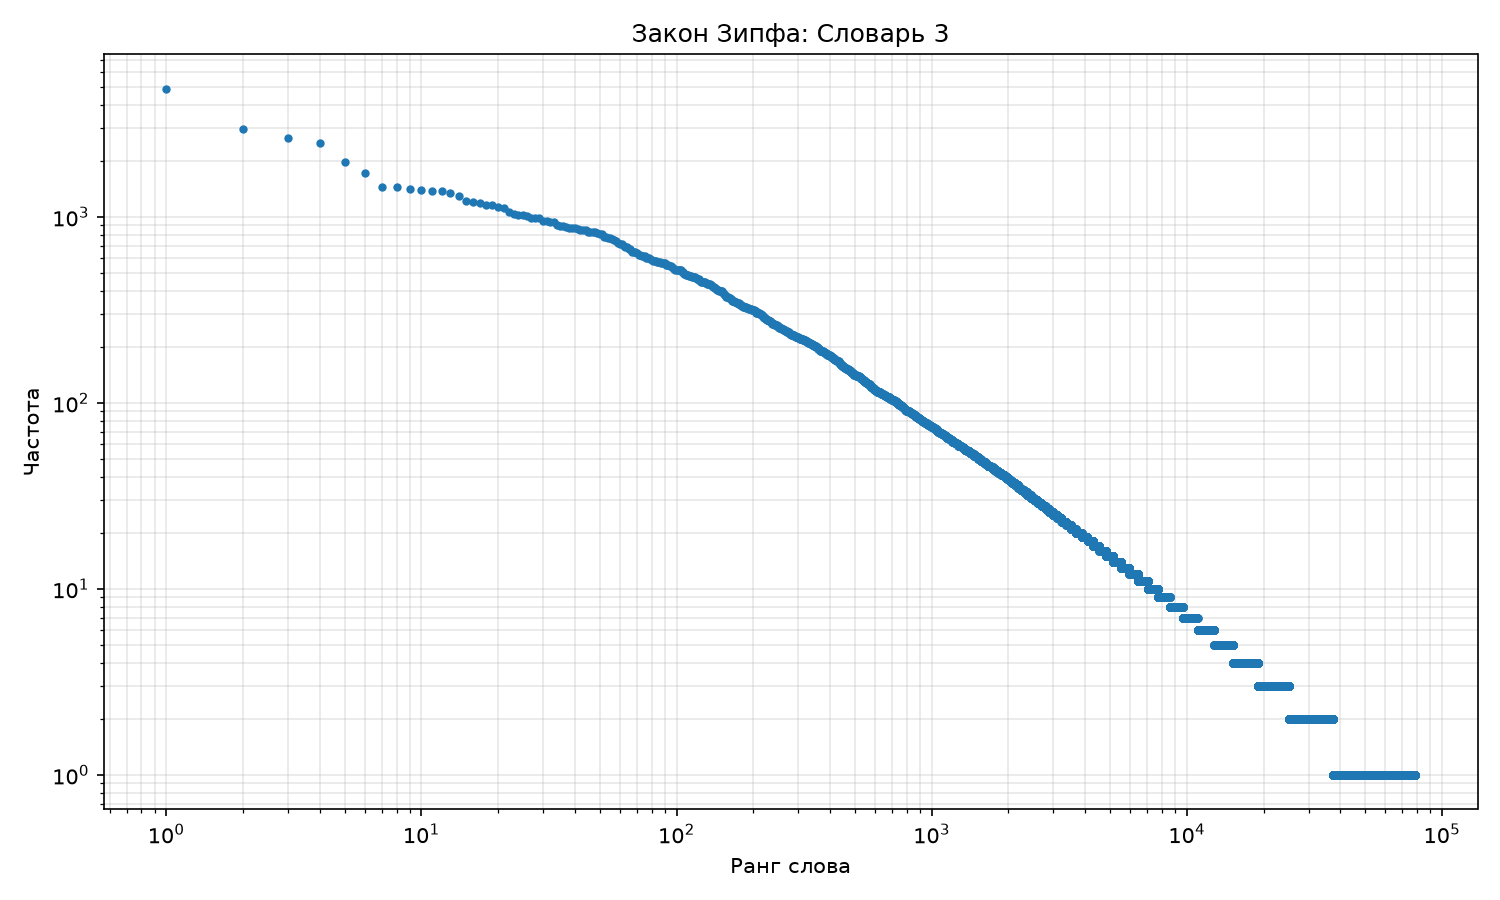
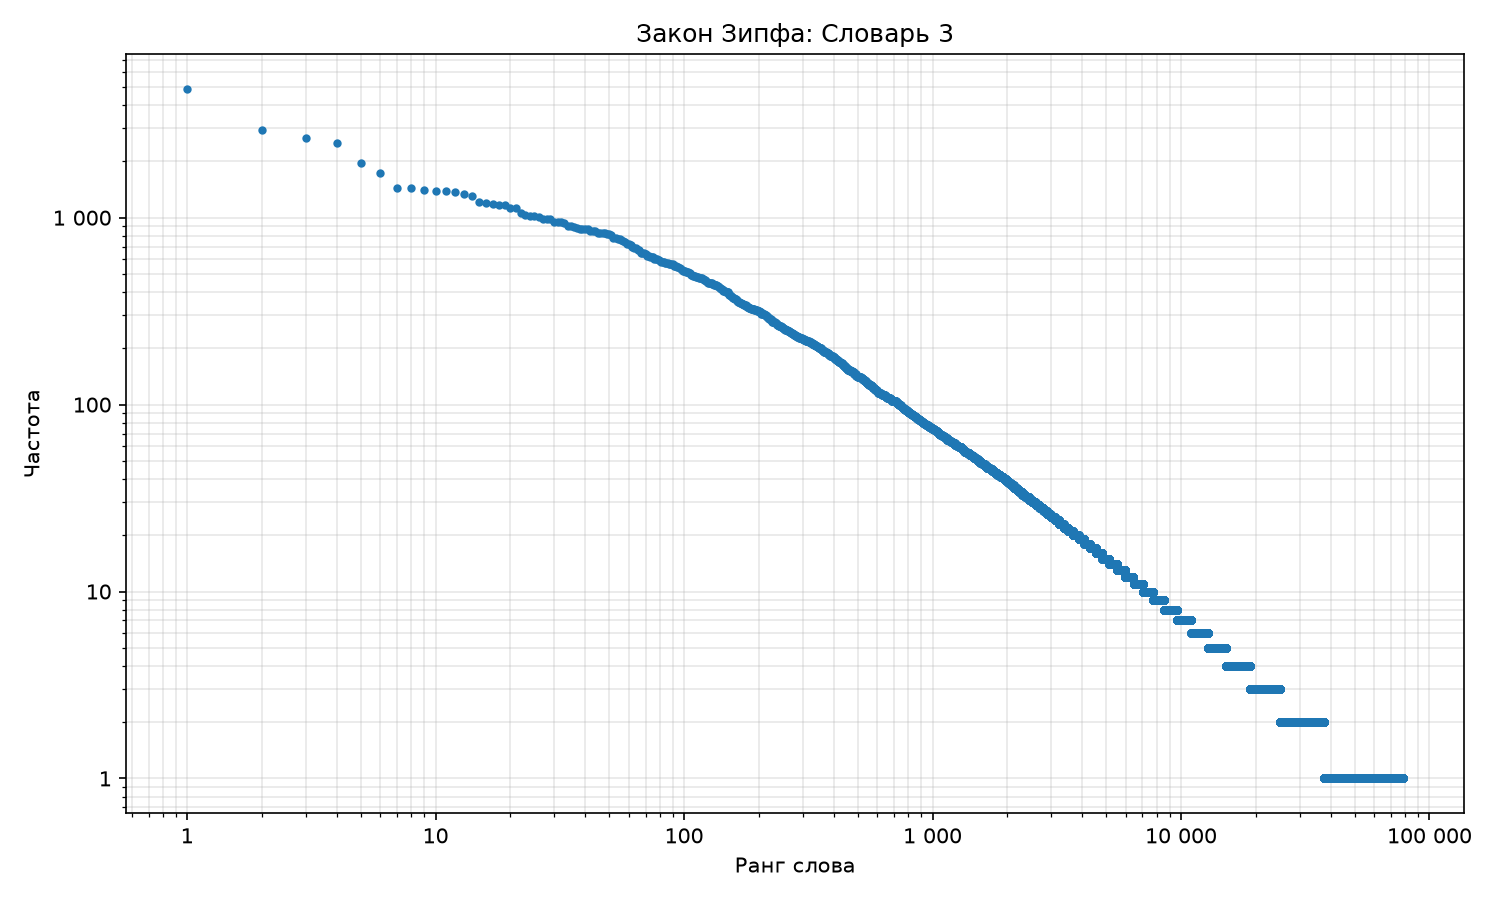
вроде ворк лаба 2

diff --git a/main4.py b/main4.py
@@ -1,14 +1,11 @@
 import os
+import re
 import spacy_udpipe
 from graphviz import Digraph
 
 
-
-# Решение проблемы с путями Graphviz на Windows
 os.environ["PATH"] += os.pathsep + r"C:\Program Files\Graphviz\bin"
 
-
-# Настройка и очистка папки для хранения графов (только через os)
 TARGET_DIR = "graphs"
 
 if os.path.exists(TARGET_DIR):
@@ -20,8 +17,6 @@ if os.path.exists(TARGET_DIR):
 else:
     os.makedirs(TARGET_DIR, exist_ok=True)
 
-
-# Загрузка модели синтаксического анализа
 MODEL_PATH = "russian-syntagrus-ud-2.5-191206.udpipe"
 
 if not os.path.exists(MODEL_PATH):
@@ -33,64 +28,155 @@ nlp = spacy_udpipe.load_from_path(lang="ru", path=MODEL_PATH, meta={"description
 print("Модель готова к работе\n")
 
 
+COPULAS = {"стать", "быть", "казаться", "оказаться", "являться", "называть", "считать", "сделаться", "остаться"}
+
+
 def analyze_sentence(text, index):
-    doc = nlp(text)
+    text_clean = re.sub(r"\s+[—–]\s+", " ", text).strip()
+    doc = nlp(text_clean)
+
+    def dep(tok):
+        return tok.dep_.lower()
+
+    def get_full_word(tok):
+        parts = [tok.text]
+        for child in tok.children:
+            if dep(child) in ("fixed", "goeswith"):
+                parts.append(child.text)
+        if dep(tok) in ("fixed", "goeswith"):
+            parts = [tok.head.text]
+            for child in tok.head.children:
+                if dep(child) in ("fixed", "goeswith"):
+                    parts.append(child.text)
+        parts_sorted = sorted(set(parts), key=lambda w: text_clean.find(w))
+        return "".join(parts_sorted)
+
+    # --- 1. Подлежащие (с фильтром для конструкций "нет + Gen") ---
+    subject_deps = {"nsubj", "csubj", "nsubjpass", "csubjpass"}
+    base_subjects = [token for token in doc if dep(token) in subject_deps]
     subjects = []
+    for subj in base_subjects:
+        # Баг-фикс: "Нет времени" — "времени" в родительном падеже при "нет" не является подлежащим
+        if (
+            subj.head.lemma_.lower() in ("нет", "не́ту")
+            and "Gen" in subj.morph.get("Case", [])
+        ):
+            continue
+        
+        full_subj = get_full_word(subj)
+        if full_subj not in subjects:
+            subjects.append(full_subj)
+        for child in subj.children:
+            if dep(child) == "conj":
+                full_conj = get_full_word(child)
+                if full_conj not in subjects:
+                    subjects.append(full_conj)
+
+    # --- 2. Глагольные сказуемые ---
     predicates = []
-    
-    # Создаем направленный граф
+
+    def is_predicate_token(tok):
+        d = dep(tok)
+        if d == "root":
+            return True
+        if tok.pos_ in ("VERB", "AUX") and d not in ("advcl", "acl", "amod", "acl:relcl"):
+            return True
+        return False
+
+    for token in doc:
+        if is_predicate_token(token):
+            full_pred = get_full_word(token)
+            if full_pred not in predicates:
+                predicates.append(full_pred)
+            for child in token.children:
+                if dep(child) == "conj" and is_predicate_token(child):
+                    full_conj = get_full_word(child)
+                    if full_conj not in predicates:
+                        predicates.append(full_conj)
+
+    # --- 2.1. Именная часть сказуемого ---
+    for token in doc:
+        d = dep(token)
+        full_name = get_full_word(token)
+
+        # attr / xcomp при глаголе-связке
+        if d in ("attr", "xcomp") and token.head.pos_ in ("VERB", "AUX"):
+            if full_name not in predicates:
+                predicates.append(full_name)
+            continue
+
+        # Творительный при глаголах-связках
+        if (
+            d == "obl"
+            and token.head.pos_ in ("VERB", "AUX")
+            and "Ins" in token.morph.get("Case", [])
+            and token.head.lemma_.lower() in COPULAS
+        ):
+            if full_name not in predicates:
+                predicates.append(full_name)
+            continue
+
+        # Нулевая связка: только главные позиции (root/parataxis/orphan/appos/conj).
+        # Баг-фикс: убрали nmod, ccomp, dep, чтобы зависимые слова (архитектуры) не попадали в сказуемые.
+        if (
+            d in ("root", "parataxis", "orphan", "appos", "conj")
+            and token.pos_ not in ("VERB", "AUX", "PUNCT", "ADP", "CCONJ", "SCONJ", "DET", "PART", "NUM")
+            and subjects
+            and full_name not in subjects
+        ):
+            if full_name not in predicates:
+                predicates.append(full_name)
+
+    # --- 3. Тип предложения ---
+    sentence_type = "двусоставное"
+    roots = [t for t in doc if dep(t) == "root"]
+    has_verb = any(t.pos_ in ("VERB", "AUX") for t in doc)
+    noun_roots = [r for r in roots if r.pos_ in ("NOUN", "PROPN")]
+
+    if noun_roots and not has_verb and not subjects:
+        sentence_type = "назывное (номинативное)"
+        full_root = get_full_word(noun_roots[0])
+        if full_root not in predicates:
+            predicates.append(full_root)
+    elif not subjects or not predicates:
+        sentence_type = "односоставное"
+        if not subjects and not predicates:
+            sentence_type += " (главные члены не выражены явно)"
+
+    # --- 4. Граф ---
     dot = Digraph(format='png', comment=f'Sentence {index}')
-    dot.attr(rankdir='TB') 
-    
+    dot.attr(rankdir='TB')
     for token in doc:
         node_id = f"{token.text}_{token.i}"
         node_label = f"{token.text}\n({token.pos_})"
         dot.node(node_id, node_label)
-        
-        # Поиск подлежащих
-        if "nsubj" in token.dep_:
-            subjects.append(token.text)
-            
-        # Скорректированный фильтр поиска сказуемых:
-        # Исключаем деепричастия (advcl) и причастия (acl), оставляя полноценные предикаты
-        is_verb_or_aux = token.pos_ in ["VERB", "AUX"]
-        is_not_modifier = token.dep_ not in ["advcl", "acl"]
-        
-        if token.dep_ == "root" or (is_verb_or_aux and is_not_modifier):
-            if token.text not in predicates:
-                predicates.append(token.text)
-        
-        # Построение связей (стрелки от главного слова к зависимому)
-        if token.dep_ != "root":
+        if dep(token) != "root":
             head_id = f"{token.head.text}_{token.head.i}"
             dot.edge(head_id, node_id, label=token.dep_)
-            
-    # Вывод результатов в консоль
+
+    # --- 5. Вывод ---
     print(f"\n--- Результаты разбора предложения №{index} ---")
+    print(f"Тип предложения: {sentence_type}")
     print(f"Подлежащие: {', '.join(subjects) if subjects else 'не найдены'}")
     print(f"Сказуемые: {', '.join(predicates) if predicates else 'не найдены'}")
-    
-    # Формируем относительный путь внутри папки graphs/
+
     graph_filename = f"syntax_graph_{index}"
     filepath = os.path.join(TARGET_DIR, graph_filename)
-    
-    # Сохраняем граф
     dot.render(filepath, cleanup=True)
     print(f"Граф успешно сохранен в: {filepath}.png")
 
 
-# Бесконечный интерактивный цикл ввода
 sentence_index = 1
 while True:
-    print("\n" + "="*50)
+    print("\n" + "=" * 50)
     user_input = input("Введите предложение (или 'в' для завершения): ").strip()
-    
+
     if user_input.lower() in ['выход', 'exit', 'quit', 'q', 'в']:
         print("Выход")
         break
     if not user_input:
         continue
-        
+
     try:
         analyze_sentence(user_input, sentence_index)
         sentence_index += 1

diff --git a/main2.py b/main2.py
@@ -1,4 +1,5 @@
 import json
+import math
 from collections import Counter
 
 import matplotlib.pyplot as plt
@@ -72,15 +73,13 @@ def remove_stop_words(words: Counter, stop_words: set[str]) -> Counter:
 def print_comparison(dictionaries: dict[str, Counter]) -> None:
     # Выводит топ-40 слов для всех четырёх словарей в виде таблицы
     print("\nтоп-40 слов:")
-    # Шапка 
+    # Шапка
     print(f"{'Ранг':<5}", end="")
 
     for name in dictionaries:
         print(f"{name:<20}", end="")
     print()
 
-    # "Словарь 1": [("и", 37620), ("в", 20032), ("не", 16052), ...],
-    # "Словарь 2": [("и", 37620), ("он", 24037), ("в", 21031), ...]
     tops = {
         name: dictionary.most_common(TOP_N)
         for name, dictionary in dictionaries.items()
@@ -99,23 +98,73 @@ def print_comparison(dictionaries: dict[str, Counter]) -> None:
         print()
 
 
-def zipf_constant(words: Counter) -> float:
-    """Оценка константы Зипфа C ≈ среднее(r * f(r)).
+def zipf_params(words: Counter) -> tuple[float, float] | None:
+    """Оценка параметров закона Зипфа: f(r) = C * r^(-alpha).
 
-    По закону Зипфа f(r) ~ C / r, то есть произведение r * f(r)
-    примерно постоянно. Здесь берём среднее по всем рангам
-    как грубую оценку C.
+    Математика:
+    Логарифмируем обе части закона Зипфа:
+        log f(r) = log(C) - alpha * log(r)
+    Это уравнение прямой линии вида Y = A + B*X, где:
+        Y = log f(r)
+        X = log r
+        A = log C      (свободный член)
+        B = -alpha     (угловой коэффициент)
+
+    Мы находим коэффициенты A и B методом наименьших квадратов (МНК),
+    а затем вычисляем C = exp(A) и alpha = -B.
+
+    Закон Зипфа выполняется только в средней части распределения.
+    Поэтому:
+      * отсекаем голову (r < R_MIN) — самые частые слова ведут себя иначе;
+      * отсекаем хвост (f(r) < F_MIN) — слова с частотой 1-2 дают шум
+        и занижают наклон (из-за огромного количества таких слов).
     """
-    if not words:
-        return 0.0
+    R_MIN = 10        # не берём первые R_MIN-1 рангов (отсекаем "голову")
+    F_MIN = 3         # не берём слова с частотой меньше F_MIN (отсекаем "хвост")
 
-    # r * f(r) для каждого ранга r (нумерация с 1)
-    values = [rank * count for rank, (_, count) in enumerate(words.most_common(), start=1)]
+    # Получаем список слов, отсортированный по убыванию частоты
+    items = words.most_common()
 
-    return sum(values) / len(values)
+    # Подготавливаем массивы для логарифмов X (ранг) и Y (частота)
+    xs, ys = [], []
+    for rank, (_, count) in enumerate(items, start=1):
+        if rank < R_MIN:
+            continue
+        if count < F_MIN:
+            # хвост распределения — дальше только реже, можно остановиться
+            break
+        xs.append(math.log(rank))
+        ys.append(math.log(count))
 
+    n = len(xs)
+    # Если точек меньше двух, прямую построить невозможно
+    if n < 2:
+        return None
 
+    # Находим средние значения для X и Y (нужны для формулы МНК)
+    mx = sum(xs) / n
+    my = sum(ys) / n
 
+    # Вычисляем числитель и знаменатель для нахождения углового коэффициента (наклона)
+    # num = сумма( (x_i - mx) * (y_i - my) )
+    # den = сумма( (x_i - mx)^2 )
+    num = sum((x - mx) * (y - my) for x, y in zip(xs, ys))
+    den = sum((x - mx) ** 2 for x in xs)
+    
+    # Защита от деления на ноль
+    if den == 0:
+        return None
+
+    # alpha = -B, где B - это наклон прямой. Так как распределение убывает, B отрицательный,
+    # поэтому минус перед делением делает alpha положительной (как и должно быть в законе Зипфа).
+    alpha = -num / den              
+    
+    # Находим свободный член A (это log C). 
+    # Из уравнения прямой: my = A + B * mx  =>  A = my - B * mx = my + alpha * mx
+    log_c = my + alpha * mx         
+    
+    # Возвращаем C (потенцируем обратно) и alpha
+    return math.exp(log_c), alpha
 
 
 def plot_zipf(dictionaries: dict[str, Counter]) -> None:
@@ -182,10 +231,15 @@ def main() -> None:
     # 5. Сравниваем топ-40 по всем словарям
     print_comparison(dictionaries)
 
-    # 6. Считаем и выводим константу Зипфа
-    print("\nКонстанты Зипфа:")
+    # 6. Считаем и выводим параметры закона Зипфа (f(r) = C * r^(-alpha))
+    print("\nПараметры закона Зипфа:")
     for name, dictionary in dictionaries.items():
-        print(f"  {name}: {zipf_constant(dictionary):.2f}")
+        params = zipf_params(dictionary)
+        if params is None:
+            print(f"  {name}: недостаточно данных для оценки")
+            continue
+        c, alpha = params
+        print(f"  {name}: C = {c:.2f}, alpha = {alpha:.3f}")
 
     # 7. Общая статистика по каждому словарю
     print("\nСтатистика:")
@@ -198,7 +252,6 @@ def main() -> None:
 
     # 8. Строим графики закона Зипфа
     plot_zipf(dictionaries)
-
 
 
 main()
